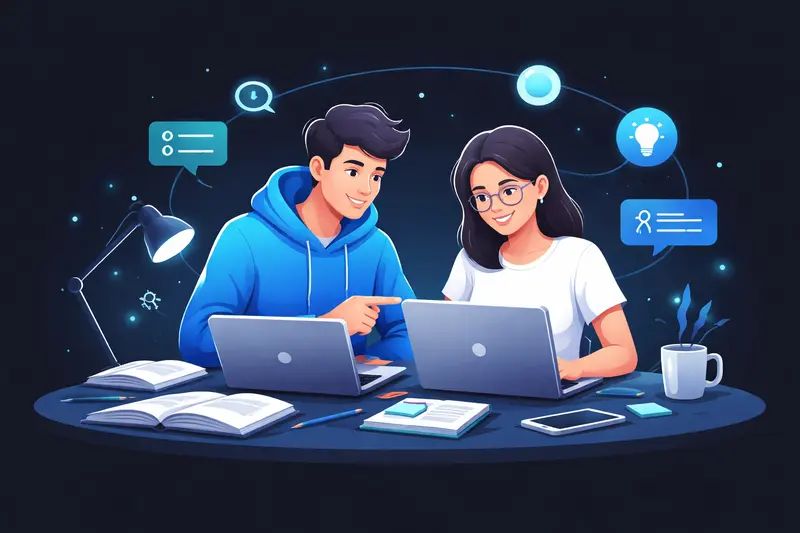
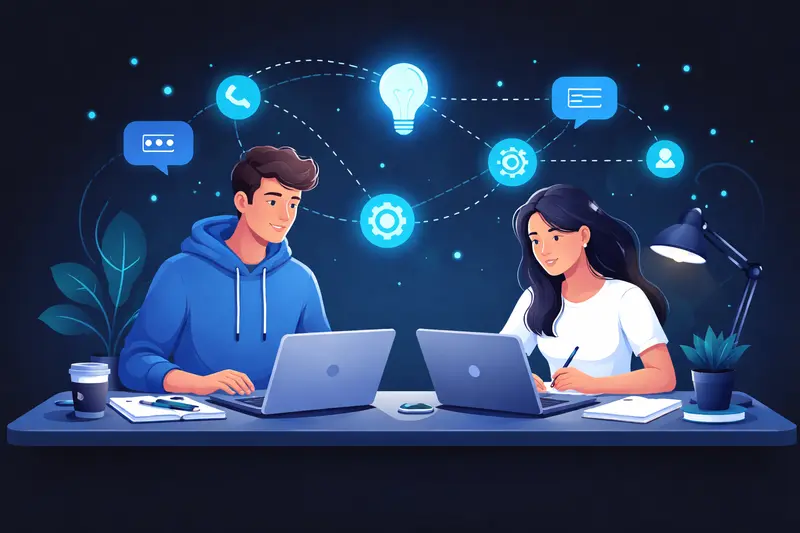
Blogartikel: Mathe Klassenarbeit Tipps (#125)
Neuer Artikel über die Vorbereitung auf Mathe Klassenarbeiten mit 8 konkreten Tipps.
Blog-Index aktualisiert, Crosslink von Kurvendiskussion-Artikel gesetzt, Registry auf 125 Artikel aktualisiert.

diff --git a/blog/posts/mathe-klassenarbeit-tipps.html b/blog/posts/mathe-klassenarbeit-tipps.html
@@ -1,0 +1,244 @@
+<!DOCTYPE html>
+<html lang="de">
+<head>
+  <meta charset="UTF-8">
+  <meta name="viewport" content="width=device-width, initial-scale=1.0">
+  <title>Mathe Klassenarbeit: 8 Tipps für eine bessere Note – Nachhilfe Mentor Blog</title>
+  <meta name="description" content="Mathe Klassenarbeit steht bevor? Mit diesen 8 konkreten Tipps bereitest du dich effizient vor, überwindest Rechenfehler und gehst sicher in deine nächste Mathestunde.">
+  <meta name="keywords" content="Mathe Klassenarbeit Tipps, Mathe Klassenarbeit vorbereiten, Mathematik Klassenarbeit, Mathe lernen Schule, Mathe Prüfung Tipps, Mathe Klausur Tipps, Mathe Note verbessern">
+  <meta property="og:title" content="Mathe Klassenarbeit: 8 Tipps für eine bessere Note">
+  <meta property="og:description" content="Mathe Klassenarbeit steht bevor? Mit diesen 8 konkreten Tipps bereitest du dich effizient vor, überwindest Rechenfehler und gehst sicher in deine nächste Mathestunde.">
+  <meta property="og:image" content="/blog/posts/img/mathe-klassenarbeit-tipps.webp">
+  <meta property="og:url" content="https://nachhilfe-mentor.de/blog/posts/mathe-klassenarbeit-tipps.html">
+  <meta property="og:type" content="article">
+  <link rel="canonical" href="https://nachhilfe-mentor.de/blog/posts/mathe-klassenarbeit-tipps.html">
+  <link rel="alternate" type="application/rss+xml" title="Nachhilfe Mentor Blog" href="https://nachhilfe-mentor.de/feed.xml">
+  <link rel="icon" href="/onewebmedia/logo-ghost.png" type="image/png">
+
+  <!-- Google tag (gtag.js) -->
+  <script async src="https://www.googletagmanager.com/gtag/js?id=G-EJGS7V6113"></script>
+  <script>
+    window.dataLayer = window.dataLayer || [];
+    function gtag(){dataLayer.push(arguments);}
+    gtag('js', new Date());
+    gtag('config', 'G-EJGS7V6113');
+  </script>
+
+  <link rel="preconnect" href="https://fonts.googleapis.com">
+  <link rel="preconnect" href="https://fonts.gstatic.com" crossorigin>
+  <link href="https://fonts.googleapis.com/css2?family=Space+Grotesk:wght@400;500;600;700;800&family=Inter:wght@400;500;600;700&display=swap" rel="stylesheet">
+
+  <link rel="stylesheet" href="/styles/modern-tech.css">
+  <link rel="stylesheet" href="/blog/blog.css">
+</head>
+<body>
+
+<nav class="navbar scrolled" id="navbar">
+  <div class="nav-container">
+    <a href="/" class="nav-logo">
+      <img src="/onewebmedia/logo-ghost.png" alt="Nachhilfe Mentor Logo">
+      <span class="nav-logo-text">Nachhilfe Mentor</span>
+    </a>
+    <div class="nav-links">
+      <a href="/" class="nav-link">Startseite</a>
+      <a href="/#features" class="nav-link">Features</a>
+      <a href="/blog/" class="nav-link active">Blog</a>
+      <a href="/#download" class="nav-link">Download</a>
+    </div>
+    <div class="nav-stores">
+      <a href="https://play.google.com/store/apps/details?id=com.thuemmlerai.nachhilfementor" class="nav-store-btn" target="_blank" rel="noopener">
+        <svg viewBox="0 0 24 24" fill="currentColor"><path d="M3,20.5V3.5C3,2.91 3.34,2.39 3.84,2.15L13.69,12L3.84,21.85C3.34,21.61 3,21.09 3,20.5M16.81,15.12L6.05,21.34L14.54,12.85L16.81,15.12M20.16,10.81C20.5,11.08 20.75,11.5 20.75,12C20.75,12.5 20.53,12.9 20.18,13.18L17.89,14.5L15.39,12L17.89,9.5L20.16,10.81M6.05,2.66L16.81,8.88L14.54,11.15L6.05,2.66Z"/></svg>
+        Google Play
+      </a>
+      <a href="https://apps.apple.com/de/app/nachhilfe-mentor/id6740411879" class="nav-store-btn" target="_blank" rel="noopener">
+        <svg viewBox="0 0 24 24" fill="currentColor"><path d="M18.71,19.5C17.88,20.74 17,21.95 15.66,21.97C14.32,22 13.89,21.18 12.37,21.18C10.84,21.18 10.37,21.95 9.1,22C7.79,22.05 6.8,20.68 5.96,19.47C4.25,17 2.94,12.45 4.7,9.39C5.57,7.87 7.13,6.91 8.82,6.88C10.1,6.86 11.32,7.75 12.11,7.75C12.89,7.75 14.37,6.68 15.92,6.84C16.57,6.87 18.39,7.1 19.56,8.82C19.47,8.88 17.39,10.1 17.41,12.63C17.44,15.65 20.06,16.66 20.09,16.67C20.06,16.74 19.67,18.11 18.71,19.5M13,3.5C13.73,2.67 14.94,2.04 15.94,2C16.07,3.17 15.6,4.35 14.9,5.19C14.21,6.04 13.07,6.7 11.95,6.61C11.8,5.46 12.36,4.26 13,3.5Z"/></svg>
+        App Store
+      </a>
+    </div>
+    <button class="mobile-toggle" aria-label="Menu"><span></span><span></span><span></span></button>
+  </div>
+</nav>
+
+<nav class="mobile-nav" aria-label="Mobile Navigation">
+  <a href="/" class="nav-link">Startseite</a>
+  <a href="/#features" class="nav-link">Features</a>
+  <a href="/blog/" class="nav-link active">Blog</a>
+  <a href="/#download" class="nav-link">Download</a>
+</nav>
+
+<section class="blog-post-hero">
+  <div class="hero-bg"><div class="hero-grid"></div><div class="orb orb-1"></div><div class="orb orb-2"></div></div>
+  <div class="container">
+    <a href="/blog/" class="blog-back">
+      <svg width="16" height="16" viewBox="0 0 24 24" fill="none" stroke="currentColor" stroke-width="2"><path d="M19 12H5M12 19l-7-7 7-7"/></svg>
+      Zurück zum Blog
+    </a>
+    <div class="blog-post-meta">
+      <span class="blog-tag">Mathematik</span>
+      <time datetime="2026-05-08">8. Mai 2026</time>
+      <span>8 Min. Lesezeit</span>
+    </div>
+    <h1 class="blog-post-title">Mathe Klassenarbeit bestehen: 8 Tipps, die wirklich helfen</h1>
+    <p class="blog-post-subtitle">So bereitest du dich gezielt auf die nächste Mathe Klassenarbeit vor, vermeidest typische Fehler und gehst mit einem klaren Kopf in die Prüfung.</p>
+  </div>
+</section>
+
+<article class="blog-post-content">
+  <div class="container">
+
+    <div class="blog-featured-img">
+      <img src="/blog/posts/img/mathe-klassenarbeit-tipps.webp" alt="Schüler bereitet sich gezielt auf Mathe Klassenarbeit vor" loading="lazy">
+    </div>
+
+    <p>Mathe Klassenarbeit morgen und du weißt nicht, wo du anfangen sollst? Oder du hast gelernt, aber in der Prüfung läuft irgendwie trotzdem nicht alles rund? Dann bist du hier richtig. In diesem Artikel bekommst du 8 konkrete Tipps, mit denen du dich strukturiert auf Mathe Klassenarbeiten vorbereitest, häufige Stolperfallen vermeidest und am Ende besser abschneidest als erwartet.</p>
+
+    <h2>Warum Mathe Klassenarbeiten so viele Schüler stressen</h2>
+
+    <p>Mathematik ist das Fach, in dem viele Schüler das Gefühl haben: Entweder ich kann es, oder ich kann es nicht. Das stimmt so nicht. Mathe ist kein Talent-Fach, sondern ein Übungs-Fach. Der Unterschied zwischen einer guten und einer schlechten Note liegt meist nicht an Intelligenz, sondern an der Qualität der Vorbereitung.</p>
+
+    <p>Der häufigste Fehler: Viele Schüler lesen ihre Notizen noch einmal durch, nicken gedankenversunken vor sich hin ("Ja, das kenne ich"), und gehen dann in die Klassenarbeit, ohne wirklich geübt zu haben. In Mathe hilft Lesen nichts. Nur Rechnen hilft.</p>
+
+    <h2>Tipp 1: Frühzeitig anfangen, nicht erst am Vorabend</h2>
+
+    <p>Der Zeitpunkt des Lernens entscheidet oft mehr als die Lernzeit selbst. Wenn du drei Tage vor der Klassenarbeit anfängst, hast du Zeit für echtes Üben, Nachfragen und Festigen. Wenn du am Abend vorher anfängst, bleibt nur Pauken unter Druck, und das Gehirn speichert das Gelernte schlechter ab.</p>
+
+    <p>Plane deine Vorbereitung rückwärts: Was sind die Themen der Klassenarbeit? Welche Aufgabentypen kommen wahrscheinlich? Wann genau ist die Klassenarbeit? Verteile die Themen auf die verfügbaren Tage.</p>
+
+    <h2>Tipp 2: Verstehen vor Auswendiglernen</h2>
+
+    <p>In Mathe kann man fast nichts auswendiglernen. Formeln auswendig zu kennen hilft wenig, wenn du nicht weißt, wann und wie du sie anwendest. Echtes Verständnis bedeutet: Du kannst erklären, warum ein Rechenweg so funktioniert, und du erkennst, welcher Ansatz für welche Aufgabe passt.</p>
+
+    <p>Teste dein Verständnis mit der <a href="/blog/posts/feynman-technik-erklaeren-lernen.html">Feynman-Technik</a>: Erkläre einem imaginären Zuhörer (oder einem echten Mitschüler), wie eine Methode funktioniert, ohne in die Notizen zu schauen. Wenn du stotterst oder abbrichst, hast du eine echte Lücke gefunden.</p>
+
+    <h2>Tipp 3: Aufgaben selbst lösen, nicht nur nachvollziehen</h2>
+
+    <p>Das ist der entscheidende Unterschied zwischen gutem und schlechtem Mathe-Lernen. Viele Schüler lesen eine Musterlösung durch und denken: "Das kann ich." Aber nachvollziehen ist nicht dasselbe wie lösen können.</p>
+
+    <p>Geh so vor:</p>
+    <ol>
+      <li>Aufgabe lesen und selbst versuchen, ohne Hilfsmittel.</li>
+      <li>Feststecken? Höchstens kurz in die Notizen schauen.</li>
+      <li>Aufgabe fertig lösen.</li>
+      <li>Musterlösung vergleichen. Fehler analysieren.</li>
+      <li>Gleichen Aufgabentyp nochmals anders formuliert lösen.</li>
+    </ol>
+
+    <p>Dieser aktive Prozess ist <a href="/blog/posts/active-recall-lerntechnik.html">Active Recall</a> für Mathe. Er ist anstrengender als Lesen, aber dreimal so wirksam.</p>
+
+    <h2>Tipp 4: Alte Klassenarbeiten und Übungsaufgaben nutzen</h2>
+
+    <p>Die besten Aufgaben für deine Vorbereitung sind Aufgaben aus echten Klassenarbeiten. Bitte deinen Lehrer um alte Klausuren oder suche im Schulbuch nach Wiederholungsaufgaben am Kapitelende. Wenn du weißt, wie dein Lehrer formuliert und welche Aufgabentypen er bevorzugt, hast du einen klaren Vorteil.</p>
+
+    <p>Übe diese Aufgaben immer auch unter Zeitdruck. In der echten Klassenarbeit hast du ein festes Zeitfenster. Wer im Üben keine Zeitlimits setzt, wird in der Prüfung von der Uhr überrascht.</p>
+
+    <h2>Tipp 5: Fehler systematisch analysieren</h2>
+
+    <p>Wenn du eine Übungsaufgabe falsch hast, ist die Reaktion vieler Schüler: Fehler ansehen, Seufzen, nächste Aufgabe. Das verschenkt enormes Lernpotenzial.</p>
+
+    <p>Halte stattdessen fest:</p>
+    <ul>
+      <li>War es ein Rechenfehler (Unachtsamkeit)?</li>
+      <li>War es ein Denkfehler (Methode nicht verstanden)?</li>
+      <li>War es ein Transferfehler (Methode gekannt, aber nicht erkannt, dass sie hier passt)?</li>
+    </ul>
+
+    <p>Je nach Fehlertyp brauchst du eine andere Strategie. Rechenfehler behebst du mit mehr sorgfältigem Üben. Denkfehler behebst du, indem du nochmals von vorne verstehst. Transferfehler behebst du, indem du viele verschiedene Aufgabentypen übst.</p>
+
+    <h2>Tipp 6: Formelsammlung und Hilfsmittel gezielt einsetzen</h2>
+
+    <p>Falls du in der Klassenarbeit eine Formelsammlung benutzen darfst, übe auch mit ihr. Viele Schüler trainieren ohne Formelsammlung und sind dann in der Prüfung überfordert, sie schnell zu nutzen. Andere trainieren immer mit ihr und wissen nicht, wo was steht, wenn der Druck steigt.</p>
+
+    <p>Ideal ist ein Mittelweg: Kenne die wichtigsten Formeln auswendig, aber wisse genau, wo du sie in der Formelsammlung findest. Das spart wertvolle Sekunden in der Prüfung.</p>
+
+    <p>Gleiches gilt für den Taschenrechner. Wenn er erlaubt ist, trainiere bewusst mit ihm. Wer nicht flüssig mit dem Taschenrechner umgehen kann, verliert in der Prüfung unnötig Zeit.</p>
+
+    <h2>Tipp 7: Am Tag der Klassenarbeit einen klaren Kopf behalten</h2>
+
+    <p>In der Prüfung selbst gilt: Lies alle Aufgaben zuerst durch, bevor du anfängst. So bekommst du einen Überblick und kannst einschätzen, welche Aufgaben leicht, welche schwer sind. Starte mit dem, was du sicher kannst. Das gibt dir Selbstvertrauen und sichert Punkte.</p>
+
+    <p>Wenn du bei einer Aufgabe hängt:</p>
+    <ul>
+      <li>Überspringe sie und komme später zurück.</li>
+      <li>Schreibe auf, was du weißt (Formeln, Ansatz), auch wenn die Lösung fehlt. Teilpunkte zählen.</li>
+      <li>Atme kurz durch und fange die Aufgabe nochmals von vorne an.</li>
+    </ul>
+
+    <p>Denke daran: Rechenfehler passieren jedem. Ein falsches Ergebnis mit richtigem Rechenweg gibt oft trotzdem Punkte. Zeige immer deinen Lösungsweg, auch wenn du am Ende unsicher bist.</p>
+
+    <h2>Tipp 8: Auf ein Thema konzentrieren, nicht alles gleichzeitig</h2>
+
+    <p>Wenn die Klassenarbeit mehrere Themen umfasst, ist es verlockend, jedes Thema kurz anzutippen. Besser ist es, jedes Thema einzeln zu schließen, bevor du zum nächsten gehst. Was bedeutet "schließen"? Mindestens drei Aufgaben ohne Fehler lösen können.</p>
+
+    <p>Diese Fokus-Strategie funktioniert besonders gut in Kombination mit der <a href="/blog/posts/pomodoro-technik-lernen.html">Pomodoro-Technik</a>: 25 Minuten intensiv ein Thema üben, dann 5 Minuten Pause, dann nächstes Thema. So bleibt dein Gehirn frisch und du machst echten Fortschritt, statt oberflächlich über alles hinwegzufliegen.</p>
+
+    <h2>Was tun bei Mathe-Angst?</h2>
+
+    <p>Wenn du grundsätzlich ein schwieriges Verhältnis zu Mathe hast, liegt das oft an Erfahrungen aus der Vergangenheit: zu wenig erklärt bekommen, schlechte Noten, das Gefühl "Ich bin halt kein Mathe-Mensch". Das ist veränderbar.</p>
+
+    <p>Mathematik ist ein Fach, in dem jede Stunde auf der vorherigen aufbaut. Wenn du früh eine Lücke hattest (z.B. beim Bruchrechnen in Klasse 6 oder bei Gleichungen in Klasse 7), trägt sich das durch alle folgenden Jahre. Schließe Basislücken gezielt, und vieles, was danach schwierig schien, wird plötzlich einfacher.</p>
+
+    <p>Die Nachhilfe Mentor App kann dabei helfen: Sie erkennt, wo dein Wissen konkret fehlt, stellt gezielte Übungsaufgaben und erklärt Schritt für Schritt, bis du das Konzept wirklich verstanden hast. Das ist kein Pauken, sondern strukturiertes Lernen mit System.</p>
+
+    <h2>Die wichtigsten Mathe-Themen nach Klasse</h2>
+
+    <p>Je nach Klassenstufe variieren die Schwerpunkte einer Mathe Klassenarbeit erheblich. Hier ein kurzer Überblick:</p>
+
+    <ul>
+      <li><strong>Klasse 5-6:</strong> Bruchrechnen, natürliche Zahlen, Grundrechenarten, einfache Geometrie</li>
+      <li><strong>Klasse 7-8:</strong> Gleichungen, Dreisatz, Prozentrechnung, Terme und Variablen</li>
+      <li><strong>Klasse 9-10:</strong> Lineare und quadratische Funktionen, Pythagoräischer Lehrsatz, Trigonometrie</li>
+      <li><strong>Klasse 11-12/Oberstufe:</strong> Analysis (<a href="/blog/posts/kurvendiskussion-tipps.html">Kurvendiskussion</a>, <a href="/blog/posts/integralrechnung-tipps.html">Integralrechnung</a>), <a href="/blog/posts/stochastik-lernen-tipps.html">Stochastik</a>, Vektorrechnung</li>
+    </ul>
+
+    <p>Für jeden dieser Bereiche gilt dasselbe Grundprinzip: Verstehen, dann üben, dann variieren. Wer das konsequent macht, hat bei der nächsten Mathe Klassenarbeit eine echte Chance auf eine bessere Note.</p>
+
+    <h2>Kurz zusammengefasst</h2>
+
+    <p>Eine Mathe Klassenarbeit zu bestehen ist kein Zufallsergebnis. Es ist das direkte Resultat aus Vorbereitung und Methode. Frühzeitig anfangen, aktiv üben statt passiv lesen, Fehler analysieren, alte Aufgaben üben und in der Prüfung strukturiert vorgehen: Das sind die Zutaten für eine bessere Mathenote. Du kannst das lernen. Wirklich.</p>
+
+    <div class="blog-cta">
+      <h3>Bereit, smarter zu lernen?</h3>
+      <p>Lade Nachhilfe Mentor kostenlos herunter und erlebe KI-gestuetztes Lernen selbst.</p>
+      <div class="download-btns" style="display:flex;gap:12px;justify-content:center;flex-wrap:wrap;">
+        <a href="https://play.google.com/store/apps/details?id=com.thuemmlerai.nachhilfementor" class="btn-store" target="_blank" rel="noopener">
+          <div class="btn-store-inner">
+            <svg viewBox="0 0 24 24" fill="currentColor"><path d="M3,20.5V3.5C3,2.91 3.34,2.39 3.84,2.15L13.69,12L3.84,21.85C3.34,21.61 3,21.09 3,20.5M16.81,15.12L6.05,21.34L14.54,12.85L16.81,15.12M20.16,10.81C20.5,11.08 20.75,11.5 20.75,12C20.75,12.5 20.53,12.9 20.18,13.18L17.89,14.5L15.39,12L17.89,9.5L20.16,10.81M6.05,2.66L16.81,8.88L14.54,11.15L6.05,2.66Z"/></svg>
+            <div class="btn-store-text"><span class="label">Jetzt bei</span><span class="name">Google Play</span></div>
+          </div>
+        </a>
+        <a href="https://apps.apple.com/de/app/nachhilfe-mentor/id6740411879" class="btn-store" target="_blank" rel="noopener">
+          <div class="btn-store-inner">
+            <svg viewBox="0 0 24 24" fill="currentColor"><path d="M18.71,19.5C17.88,20.74 17,21.95 15.66,21.97C14.32,22 13.89,21.18 12.37,21.18C10.84,21.18 10.37,21.95 9.1,22C7.79,22.05 6.8,20.68 5.96,19.47C4.25,17 2.94,12.45 4.7,9.39C5.57,7.87 7.13,6.91 8.82,6.88C10.1,6.86 11.32,7.75 12.11,7.75C12.89,7.75 14.37,6.68 15.92,6.84C16.57,6.87 18.39,7.1 19.56,8.82C19.47,8.88 17.39,10.1 17.41,12.63C17.44,15.65 20.06,16.66 20.09,16.67C20.06,16.74 19.67,18.11 18.71,19.5M13,3.5C13.73,2.67 14.94,2.04 15.94,2C16.07,3.17 15.6,4.35 14.9,5.19C14.21,6.04 13.07,6.7 11.95,6.61C11.8,5.46 12.36,4.26 13,3.5Z"/></svg>
+            <div class="btn-store-text"><span class="label">Laden im</span><span class="name">App Store</span></div>
+          </div>
+        </a>
+      </div>
+    </div>
+
+  </div>
+</article>
+
+<footer class="footer">
+  <div class="container">
+    <div class="footer-grid">
+      <div class="footer-brand">
+        <div class="footer-logo">
+          <img src="/onewebmedia/logo-ghost.png" alt="Nachhilfe Mentor">
+          <span class="footer-logo-text">Nachhilfe Mentor</span>
+        </div>
+        <p class="footer-tagline">Dein persönlicher KI-Lerncoach. Smarter lernen, mehr behalten.</p>
+      </div>
+      <div class="footer-col"><h4>Produkt</h4><a href="/#features">Features</a><a href="/blog/">Blog</a><a href="/#download">Download</a></div>
+      <div class="footer-col"><h4>Rechtliches</h4><a href="/datenschutzerklaerung.html">Datenschutz</a><a href="/nutzungsbedingungen.html">Nutzungsbedingungen</a><a href="/impressum.html">Impressum</a></div>
+      <div class="footer-col"><h4>Support</h4><a href="mailto:[email redacted]">Kontakt</a></div>
+    </div>
+    <div class="footer-bottom">
+      <p class="footer-copy">&copy; 2025 Thümmler AI GmbH. Alle Rechte vorbehalten.</p>
+      <div class="footer-meta"><span>Powered by AI</span><span>Made with Liebe in Germany</span></div>
+    </div>
+  </div>
+</footer>
+
+<script src="/scripts/modern-tech.js"></script>
+</body>
+</html>

diff --git a/blog/index.html b/blog/index.html
@@ -101,6 +101,23 @@
 
       <!-- Neue Posts werden hier automatisch eingefügt -->
 
+      <a href="/blog/posts/mathe-klassenarbeit-tipps.html" class="blog-card animate-up">
+        <div class="blog-card-img">
+          <img src="/blog/posts/img/mathe-klassenarbeit-tipps.webp" alt="Mathe Klassenarbeit bestehen: 8 Tipps für eine bessere Note" loading="lazy">
+        </div>
+        <div class="blog-card-body">
+          <div class="blog-card-meta">
+            <span class="blog-tag">Mathematik</span>
+            <time datetime="2026-05-08">8. Mai 2026</time>
+          </div>
+          <h2 class="blog-card-title">Mathe Klassenarbeit bestehen: 8 Tipps, die wirklich helfen</h2>
+          <p class="blog-card-excerpt">So bereitest du dich gezielt auf die nächste Mathe Klassenarbeit vor, vermeidest typische Fehler und gehst mit einem klaren Kopf in die Prüfung.</p>
+          <span class="blog-read-more">Weiterlesen
+            <svg width="16" height="16" viewBox="0 0 24 24" fill="none" stroke="currentColor" stroke-width="2"><path d="M5 12h14M12 5l7 7-7 7"/></svg>
+          </span>
+        </div>
+      </a>
+
       <a href="/blog/posts/binomische-formeln-lernen.html" class="blog-card animate-up">
         <div class="blog-card-img">
           <img src="/blog/posts/img/binomische-formeln-lernen.webp" alt="Binomische Formeln lernen: Die 3 Formeln einfach erklärt" loading="lazy">

diff --git a/blog/posts/kurvendiskussion-tipps.html b/blog/posts/kurvendiskussion-tipps.html
@@ -204,7 +204,7 @@
 
     <h2>Kurvendiskussion sicher lernen mit Active Recall</h2>
 
-    <p>Die Kurvendiskussion ist ein Verfahren, das du durch Üben verinnerlicherst, nicht durch Lesen. Das bedeutet: Aufgaben rechnen, Fehler analysieren, korrigieren, und wieder rechnen. Wer eine Aufgabe einmal komplett durchrechnet und danach die eigenen Fehler versteht, lernt mehr als jemand, der zehn Aufgaben nur anschaut.</p>
+    <p>Die Kurvendiskussion ist ein Verfahren, das du durch Üben verinnerlicherst, nicht durch Lesen. Das bedeutet: Aufgaben rechnen, Fehler analysieren, korrigieren, und wieder rechnen. Wer eine Aufgabe einmal komplett durchrechnet und danach die eigenen Fehler versteht, lernt mehr als jemand, der zehn Aufgaben nur anschaut. Allgemeine Tipps für <a href="/blog/posts/mathe-klassenarbeit-tipps.html">Mathe Klassenarbeiten</a> findest du in unserem separaten Leitfaden.</p>
 
     <p>Nutze <a href="/blog/posts/active-recall-lerntechnik.html">Active Recall</a>: Schließe nach jedem Schritt deine Unterlagen und erkläre dir selbst, was du getan hast und warum. Das festigt das Verfahren nachhaltig. Die Nachhilfe Mentor App kann dich dabei unterstützen, indem sie gezielt Rückfragen zu Ableitungsregeln und den Kriterien für Extrem- und Wendepunkte stellt, genau dort wo deine Lücken sind.</p>
 

diff --git a/blog/_BLOG_REGISTRY.md b/blog/_BLOG_REGISTRY.md
@@ -5,7 +5,7 @@ Es dient als Gedächtnis: welche Artikel existieren, welche Themen abgedeckt sin
 und welche Keywords verwendet wurden. NICHT MANUELL BEARBEITEN.
 
 ## Statistik
-- Gesamtzahl Artikel: 124
+- Gesamtzahl Artikel: 125
 - Letzte Veröffentlichung: 2026-05-08
 - Nächster geplanter Post: TBD
 
@@ -115,6 +115,7 @@ und welche Keywords verwendet wurden. NICHT MANUELL BEARBEITEN.
 | 100 | 2026-04-30 | leserbrief-schreiben-tipps | Leserbrief schreiben: Aufbau, Tipps und häufige Fehler | Leserbrief schreiben, Leserbrief Aufbau, Leserbrief Tipps, Leserbrief Schule, Leserbrief Beispiel, Leserbrief schreiben Klasse 8, Leserbrief Einleitung, Leserbrief Argumente, Leserbrief Deutsch | Schule & Studium | Vollständige Anleitung zum Leserbrief schreiben: Was ist ein Leserbrief (Reaktion auf Zeitungsartikel), Dreigliederung (Einleitung mit Bezug auf Ausgangstext, Hauptteil mit Dreischritt These-Begründung-Beispiel, Schluss mit Forderung/Appell), formale Elemente (Datum, Ort, Anrede, Grußformel), Schritt-für-Schritt-Vorgehen (Ausgangstext verstehen, Position klären, Argumente sammeln), Sprache und Stil (sachlich, respektvoll, aktive Formulierungen, konkrete Bezüge zum Artikel), Abgrenzung zu Erörterung/Kommentar/Stellungnahme, 6 häufige Fehler, Checkliste vor Abgabe. App-Erwähnung (Active-Recall für Textsortenmerkmale). Crosslinks zu eroerterung-schreiben-tipps, kommentar-schreiben-tipps. Rückverlinkungen von eroerterung-schreiben-tipps, kommentar-schreiben-tipps. |
 | 115 | 2026-05-05 | sport-abitur-vorbereitung | Sport Abitur Vorbereitung: So meisterst du Theorie und Praxis | Sport Abitur Vorbereitung, Sport Abitur, Sport Abitur Theorie, Sporttheorie Abitur, Sport Abitur Tipps, Sport Abitur lernen, Sport Abitur Praxis, Sportklausur Abitur, Sport Abitur bestehen, Sportprüfung Abitur | Prüfungsvorbereitung | 7 Tipps zur Sport Abitur Vorbereitung: Prüfungsaufbau kennen (Praxis/Theorie/Kolloquium), Theoriethemen wirklich verstehen (Trainingslehre, Sportbiologie, Biomechanik, Sportpsychologie, Bewegungslehre), Feynman-Technik und Skizzen für Prozesse, Praxis mit Schwachstellenfokus und Videoanalyse, Sportkolloquium laut üben, 4-Wochen-Lernplan, 5 häufige Fehler. App-Erwähnung (Wissenslücken in Sporttheorie aufdecken). Crosslinks zu sport-theorie-lernen-tipps, active-recall-lerntechnik, lernplan-erstellen-tipps. Rückverlinkung von sport-theorie-lernen-tipps, abitur-vorbereitung-tipps. |
 | 114 | 2026-05-04 | tuerkisch-lernen-tipps | Türkisch lernen: 8 Tipps, mit denen du schnell besser wirst | Türkisch lernen, Türkisch lernen Tipps, Türkisch Vokabeln lernen, Türkisch Grammatik, Türkisch sprechen üben, Türkisch besser werden, Türkisch Schule, Türkisch lernen Anfänger, Vokalharmonie Türkisch, Türkisch Suffix | Sprachen lernen | 8 Tipps zum Türkisch lernen: Vokalharmonie als Prinzip verstehen (nicht auswendig lernen, vorderen vs. hinteren Vokale), Vokabeln mit Spaced Repetition in Kontextsätzen, Suffix-Baukastenprinzip begreifen (Agglutination), SOV-Satzstellung einüben (tägliche Übersetzungsübungen), täglich kleine Einheiten, Sprechen trotz Fehlern üben (Shadowing, Tandem, Selbstgespräche), Immersion im Alltag (Handy, Serien, Musik), Active Recall für Grammatikregeln. App-Erwähnung (Grammatikregeln und Vokabeln per Active Recall systematisch üben). Crosslinks zu feynman-technik-erklaeren-lernen, spaced-repetition-lernmethode, vokabeln-lernen-tipps, russisch-lernen-tipps. Rückverlinkung von russisch-lernen-tipps. |
+| 125 | 2026-05-08 | mathe-klassenarbeit-tipps | Mathe Klassenarbeit bestehen: 8 Tipps, die wirklich helfen | Mathe Klassenarbeit Tipps, Mathe Klassenarbeit vorbereiten, Mathematik Klassenarbeit, Mathe lernen Schule, Mathe Prüfung Tipps, Mathe Note verbessern | Mathematik | 8 Tipps zur Mathe Klassenarbeit: frühzeitig anfangen (3+ Tage vorher), Verstehen vor Auswendiglernen, Active Recall mit selbst lösen statt nachvollziehen, alte Klassenarbeiten und Übungsaufgaben nutzen, Fehler systematisch analysieren (Rechenfehler/Denkfehler/Transferfehler), Formelsammlung und Taschenrechner gezielt einsetzen, am Prüfungstag Überblick verschaffen und leicht starten, ein Thema nach dem anderen schließen (Pomodoro-Technik). Überblick Mathe-Themen nach Klasse (5-12, inkl. Oberstufe). App-Erwähnung (Wissenslücken erkennen). Crosslinks zu feynman-technik-erklaeren-lernen, active-recall-lerntechnik, pomodoro-technik-lernen, kurvendiskussion-tipps, stochastik-lernen-tipps, integralrechnung-tipps. Rückverlinkung von kurvendiskussion-tipps. |
 | 124 | 2026-05-08 | binomische-formeln-lernen | Binomische Formeln: Erklärung, Beispiele und Aufgaben | binomische Formeln, binomische Formeln Erklärung, binomische Formeln Beispiele, binomische Formeln lernen, 1. binomische Formel, 2. binomische Formel, 3. binomische Formel, binomische Formeln Aufgaben, Mathe Klasse 8 9 10 | Fachspezifische Lerntipps | Die 3 binomischen Formeln einfach erklärt: 1. (a+b)²=a²+2ab+b², 2. (a−b)²=a²−2ab+b², 3. (a+b)(a−b)=a²−b². Mit Herleitung statt Auswendiglernen, Rückwärtsanwendung (Faktorisieren), Übungsaufgaben zum Selbst-Testen, 5 häufige Fehler. App-Erwähnung (gezielte Rückfragen für Wissenslücken). Crosslinks zu active-recall-lerntechnik, mathe-lernen-tipps, kurvendiskussion-tipps. Rückverlinkung von mathe-lernen-tipps. |
 | 123 | 2026-05-07 | lineare-gleichungen-loesen-tipps | Lineare Gleichungen lösen: Schritt-für-Schritt-Anleitung für Schüler | lineare Gleichungen lösen, lineare Gleichung, Gleichungen lösen, Gleichungssystem lösen, Äquivalenzumformung, Additionsverfahren, Substitutionsverfahren, Gleichungen Schule, Algebra lernen | Fachspezifische Lerntipps | 3 Methoden zum Lösen linearer Gleichungen: Äquivalenzumformung (einfache Gleichungen), Substitutionsverfahren und Additionsverfahren (Gleichungssysteme). Schritt-für-Schritt-Beispiele, Entscheidungshilfe welches Verfahren wann, 5 häufige Fehler, Klausurvorbereitung. App-Erwähnung (gezielte Rückfragen zu Wissenslücken). Crosslinks zu active-recall-lerntechnik, mathe-lernen-tipps, kurvendiskussion-tipps. Rückverlinkung von mathe-lernen-tipps. |
 | 122 | 2026-05-07 | integralrechnung-tipps | Integralrechnung lernen: Schritt-für-Schritt-Anleitung für Schüler | Integralrechnung, Integral berechnen, Stammfunktion, bestimmtes Integral, Integralrechnung Tipps, Integralrechnung Abitur, Flächeninhalt Integral, Analysis lernen | Fachspezifische Lerntipps | Schritt-für-Schritt-Anleitung zur Integralrechnung: Grundprinzip (Fläche unter Kurven), Stammfunktionen bilden (Potenzregel, Faktorregel, Summenregel), bestimmtes Integral berechnen (F(b)-F(a)), Flächeninhalte korrekt berechnen (Vorzeichenprüfung, Nullstellen), Fläche zwischen zwei Kurven (Schnittpunkte, Differenz integrieren), 5 häufige Fehler (C vergessen, Vorzeichen Flächeninhalt, Grenzen vertauscht, falsche Stammfunktion, keine Nullstellenprüfung), Klausurvorbereitung (täglich Stammfunktionen + Flächenaufgaben + alte Klausuren). App-Erwähnung (Rückfragen zu Ableitungsregeln und Wissenslücken aufdecken). Crosslinks zu active-recall-lerntechnik, ableitung-berechnen-tipps, mathe-abitur-vorbereitung. Rückverlinkungen von ableitung-berechnen-tipps, kurvendiskussion-tipps, mathe-abitur-vorbereitung. |
@@ -813,3 +814,12 @@ und welche Keywords verwendet wurden. NICHT MANUELL BEARBEITEN.
 - ableitung-berechnen-tipps -> kurvendiskussion-tipps (Ableitungen als Grundlage für Kurvendiskussion)
 - ableitung-berechnen-tipps -> mathe-abitur-vorbereitung (Analysis im Abitur: Ableitungen als zentrales Thema)
 - kurvendiskussion-tipps -> ableitung-berechnen-tipps (Rückverlinkung: Ableitungsregeln als Voraussetzung)
+
+## Interne Verlinkungen (Artikel 125)
+- mathe-klassenarbeit-tipps -> feynman-technik-erklaeren-lernen (Tipp 2: Feynman-Technik für Mathe-Verständnis)
+- mathe-klassenarbeit-tipps -> active-recall-lerntechnik (Tipp 3: Active Recall für Mathe statt passivem Lesen)
+- mathe-klassenarbeit-tipps -> pomodoro-technik-lernen (Tipp 8: Pomodoro-Technik für strukturiertes Themen-Lernen)
+- mathe-klassenarbeit-tipps -> kurvendiskussion-tipps (Themen-Überblick: Kurvendiskussion in der Oberstufe)
+- mathe-klassenarbeit-tipps -> stochastik-lernen-tipps (Themen-Überblick: Stochastik in der Oberstufe)
+- mathe-klassenarbeit-tipps -> integralrechnung-tipps (Themen-Überblick: Integralrechnung in der Oberstufe)
+- kurvendiskussion-tipps -> mathe-klassenarbeit-tipps (Rückverlinkung: Allgemeine Tipps für Mathe Klassenarbeiten)